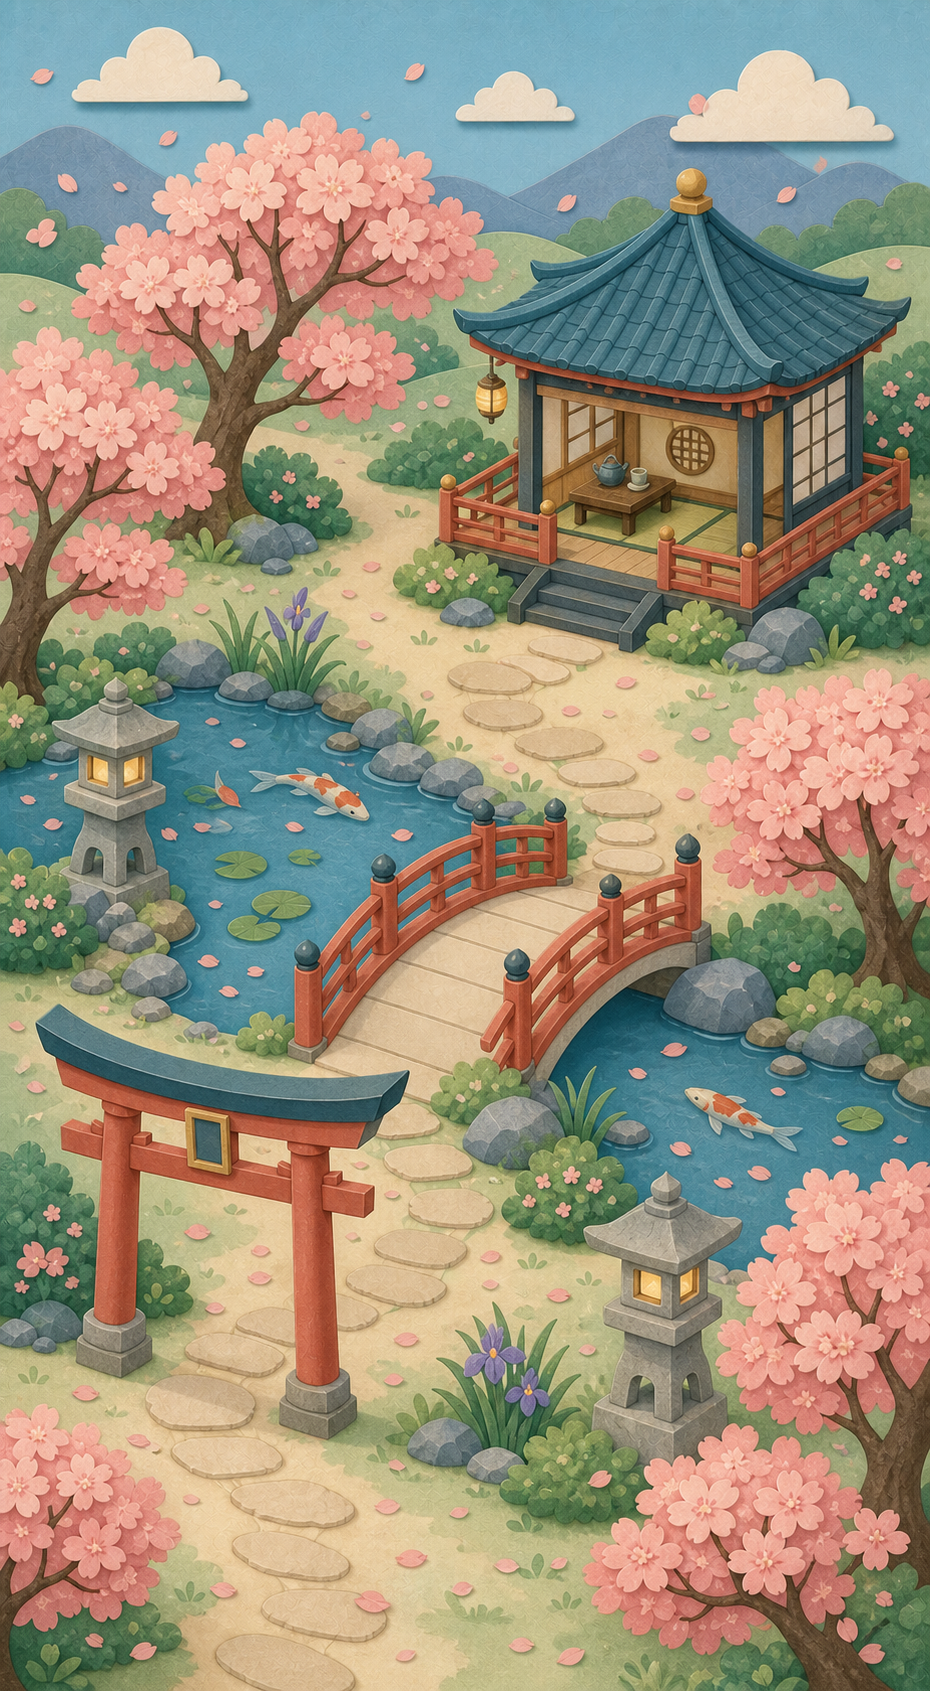
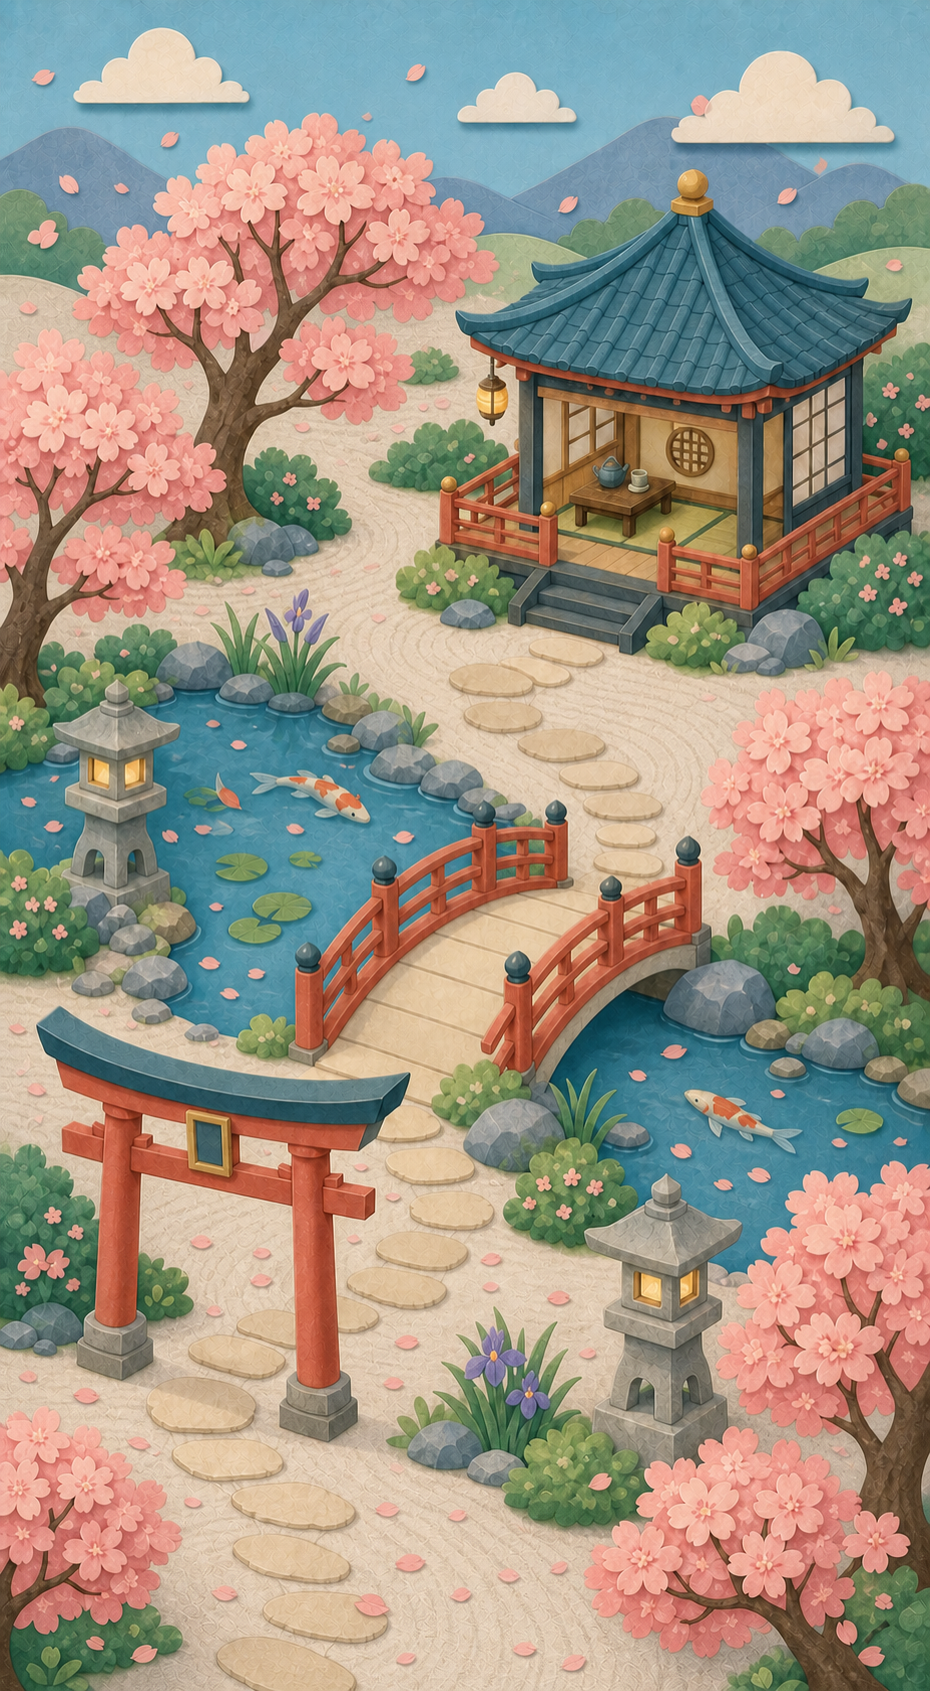
art: give cherry original mock zen sand

diff --git a/docs/superpowers/plans/2026-07-19-cherry-blossom-original-mock-zen-sand.md b/docs/superpowers/plans/2026-07-19-cherry-blossom-original-mock-zen-sand.md
@@ -1,0 +1,74 @@
+# Cherry Blossom Original Mock Zen Sand Implementation Plan
+
+> **For agentic workers:** REQUIRED SUB-SKILL: Use superpowers:subagent-driven-development (recommended) or superpowers:executing-plans to implement this plan task-by-task. Steps use checkbox (`- [ ]`) syntax for tracking.
+
+**Goal:** Replace only the canonical Cherry Blossom Garden original mock's meadow ground with the approved raked zen-sand treatment.
+
+**Architecture:** Use a two-reference built-in image edit: the original mock is the edit target and `cherry_blossom_garden.jpg` is a material-only reference. Inspect the generated candidate before mechanically normalizing it to the canonical 930 x 1691 canvas and replacing the project asset.
+
+**Tech Stack:** Built-in image generation, PNG/JPEG source assets, macOS `sips`, Git.
+
+## Global Constraints
+
+- Preserve the original composition, geometry, objects, object scale, palette, lighting, and paper-cut rendering.
+- Change only the continuous pale meadow and cream walkable ground to pale ivory raked zen sand.
+- Keep the historical v4 decomposition reference copy unchanged.
+- Final canonical PNG must be opaque and exactly 930 x 1691 pixels.
+
+---
+
+### Task 1: Generate and review the texture-only edit
+
+**Files:**
+- Modify: `games/grove/assets/_concepts/zones/cherry_blossom_garden_original_mock_v1.png`
+- Modify: `games/grove/assets/_concepts/zones/cherry_blossom_garden_original_mock_v1.prompt.txt`
+
+**Interfaces:**
+- Consumes: the canonical original mock and `games/grove/assets/_concepts/zones/cherry_blossom_garden.jpg`
+- Produces: one accepted 930 x 1691 opaque PNG and its exact prompt sidecar
+
+- [x] **Step 1: Make both source images visible and verify their roles**
+
+Inspect Image 1 as the edit target and Image 2 as the material-only reference. Confirm Image 1 is 930 x 1691 and Image 2 is 941 x 1672.
+
+- [x] **Step 2: Generate one texture-only candidate**
+
+Use the built-in image editor with both local references and the exact structured prompt saved to the sidecar. Repeat every locked invariant in the prompt.
+
+- [x] **Step 3: Inspect the candidate at full resolution**
+
+Reject the candidate if any object moves, disappears, changes scale, or is redesigned; if pond/path geometry drifts; or if rake marks cross occluding objects.
+
+- [x] **Step 4: Normalize the accepted candidate**
+
+Mechanically resize/crop only if necessary so the PNG is exactly 930 x 1691 without changing its portrait framing.
+
+- [x] **Step 5: Save the accepted asset and exact prompt**
+
+Replace only the canonical concept PNG and prompt sidecar. Do not modify the historical v4 reference copy.
+
+- [x] **Step 6: Verify artifact properties**
+
+Run:
+
+```bash
+sips -g pixelWidth -g pixelHeight -g format games/grove/assets/_concepts/zones/cherry_blossom_garden_original_mock_v1.png
+git status --short
+git diff --check
+```
+
+Expected: `pixelWidth: 930`, `pixelHeight: 1691`, `format: png`; only the canonical PNG, its prompt, and task documentation are changed; `git diff --check` exits 0.
+
+- [x] **Step 7: Review at phone scale**
+
+Create a temporary 465 x 846 review copy, visually confirm sand readability and object preservation, then discard the temporary review artifact.
+
+- [x] **Step 8: Commit**
+
+```bash
+git add docs/superpowers/specs/2026-07-19-cherry-blossom-original-mock-zen-sand-design.md \
+  docs/superpowers/plans/2026-07-19-cherry-blossom-original-mock-zen-sand.md \
+  games/grove/assets/_concepts/zones/cherry_blossom_garden_original_mock_v1.png \
+  games/grove/assets/_concepts/zones/cherry_blossom_garden_original_mock_v1.prompt.txt
+git commit -m "art: give cherry original mock zen sand"
+```
